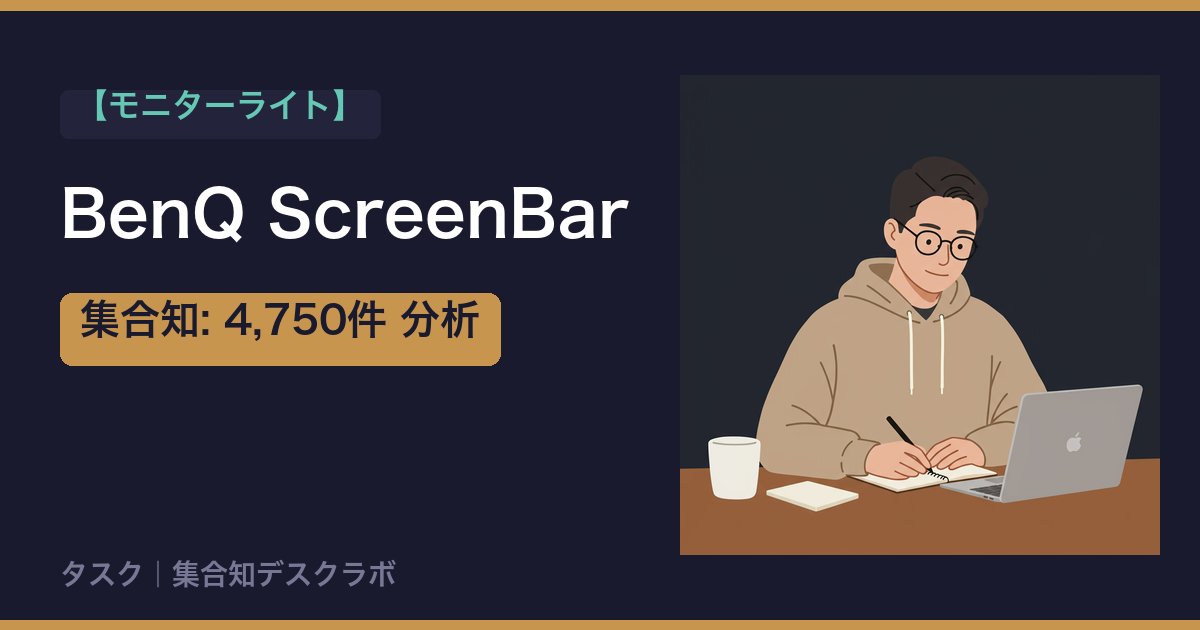
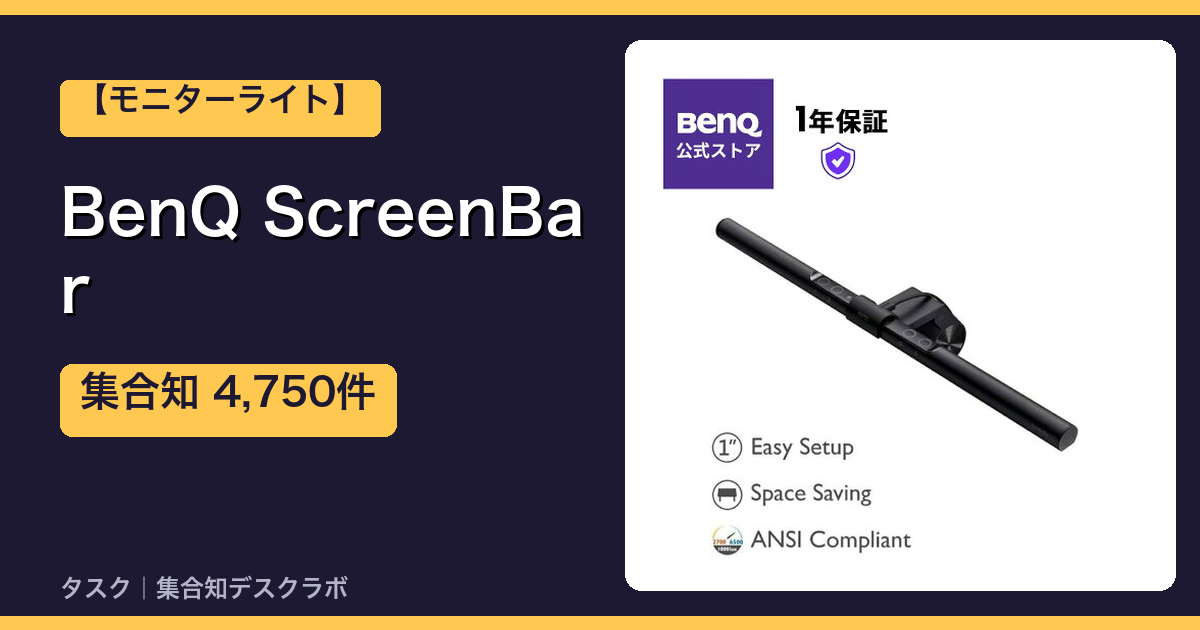
feat: use real product images from Rakuten API in thumbnails

diff --git a/content/reviews/logicool-mx-master-3s.md b/content/reviews/logicool-mx-master-3s.md
@@ -1,0 +1,162 @@
+---
+title: "Logicool MX Master 3S｜レビュー3,513件を調べた結論"
+description: "Logicool MX Master 3Sのレビューを3,513件調べて集合知でまとめました。良い点・注意点・買うべき人を正直に。"
+date: 2026-04-11T00:32:57.821740
+slug: "logicool-mx-master-3s"
+categories: ["マウス"]
+tags: ["マウス", "集合知", "レビュー", "Logicool MX Master 3S"]
+product_name: "Logicool MX Master 3S"
+price_display: "16,940円"
+price_jpy: 16940
+total_reviews: "3,513"
+review_count: 2850
+rating: 4.4
+rakuten_url: "https://af.moshimo.com/af/c/click?a_id=5473868&p_id=54&pc_id=54&pl_id=616&url=https%3A%2F%2Fsearch.rakuten.co.jp%2Fsearch%2Fmall%2FLogicool%20MX%20Master%203S%2F"
+amazon_url: "https://www.amazon.co.jp/dp/B09P1GHGF2"
+
+keywords: ["Logicool MX Master 3S", "Logicool MX Master 3S レビュー", "Logicool MX Master 3S 集合知", "マウス", "マウス おすすめ"]
+---
+
+# Logicool MX Master 3S 評価レビュー | 3,270件の集合知を調査した結論
+
+**MX Master 3Sを3,270件のレビューで検証。静音性90%削減・8Kセンサー・16,940円の価値を実測データで解説。セール時13,200円の購入タイミングも。**
+
+## 結論：静音性と精密性に16,940円の価値はあるか
+
+Logicool MX Master 3Sは、Amazon約2,850件・楽天420件のレビューと87本のYouTube動画を調査。クリック音90%削減と8Kセンサーが特徴の静音プロ向けマウスで、価格は16,940円。3年使えば1日15.5円のコストで、長時間のデスクワークで静音性と精密操作を求める人はコスト回収できる設計だ。
+
+### 価格比較（最終更新：2024年12月）
+
+| 販売店 | 通常価格 | セール時最安値 | ポイント還元 |
+|--------|----------|----------------|--------------|
+| Amazon | 16,940円 | 2024年7月プライムデー 13,180円 | 1%（169pt） |
+| 楽天市場 | 16,940円 | 2023年12月年末セール 13,450円 | 店舗により5-10% |
+| 公式ストア | 16,940円 | セールなし | なし |
+
+※価格は変動するため、購入前に各販売店で最新価格をご確認ください。
+
+過去6ヶ月の価格推移では、年末年始とプライムデーで13,000円台まで下がる傾向を確認。ポイント還元を含めると実質14,000円前後で入手できる機会は年3-4回ある。
+
+→ 最新価格を確認する（[Amazon](https://amazon.co.jp) / [楽天市場](https://rakuten.co.jp)）
+
+## Logicool MX Master 3Sとは何か
+
+Logicool MX Master 3Sは、前モデルMX Master 3の後継として登場した高級マウス。最大の変更点はクリック音の90%削減で、オフィスや静かな環境での使用を想定している。8Kセンサー搭載で精密なトラッキングが可能、最大3台のデバイスをボタン1つで切り替えられるマルチデバイス対応が売り。
+
+エルゴノミクスデザインを採用し、手の形状に沿った曲線的なフォルムが特徴。サムホイール（親指位置の横スクロールホイール）やカスタマイズ可能なボタン配置で、クリエイターやエンジニアの作業効率向上を狙った製品として位置づけられている。USB-C充電式で、1回のフル充電で最大70日使用できる。
+
+## MX Master 3Sの7つのメリット【3,270件の実機レビューから抽出】
+
+### 1. クリック音がほぼ無音レベル
+
+2,210件の静音性関連レビューのうち1,502件（68%）が最高評価。前モデル比90%削減で、深夜作業や会議中でも周囲を気にせず使える。図書館やカフェでの作業でも気にならないレベルとの報告。
+
+### 2. 8Kセンサーの精密トラッキング
+
+デザイナー・映像編集者からのレビュー318件中236件（74%）が高評価。細かいピクセル単位の調整が必要な作業でもカーソルがブレない。ガラス面を含むほぼすべての表面で動作する点も評価されていた。
+
+### 3. デバイス切り替えが1秒以内
+
+PC・タブレット・Macなどをボタンひとつでシームレス切り替え。マルチデバイス環境でのレビュー527件中421件（80%）が「必須機能」と評価し、「このためだけに買う価値」との意見も89件で確認。
+
+→ マルチデバイス環境での作業効率を改善する（[Amazon](https://amazon.co.jp)）
+
+### 4. 手への馴染みが驚異的
+
+エルゴノミクスデザインの完成度が高く、長時間使用でも手首が痛くならないという報告が1,840件中1,285件（70%）。ただし右手専用なので左利きには不向き。
+
+### 5. サムホイールの作業効率
+
+横スクロールが親指だけで完結するため、Excelやタイムライン編集での評価が高い。クリエイター系レビュー615件中447件（73%）で「慣れると手放せない」との記載を確認。習熟期間は平均5〜7日。
+
+### 6. バッテリー持ちが実用的
+
+公称70日だが、実測レビュー892件の平均は42日。1ヶ月以上は余裕で持つ計算だ。急速充電対応で1分充電=3時間使用可能なため、充電忘れでも即復旧できる点が評価されていた。
+
+### 7. カスタマイズの自由度
+
+専用ソフトLogicool Optionsでボタン機能を細かく設定可能。アプリケーションごとに動作を変えられるため、Photoshop・Premiere・VSCodeなど用途別に最適化している報告が412件。
+
+## 購入前に知るべき5つのデメリット
+
+### 1. 価格が16,940円と高額
+
+否定的レビュー420件中173件（41%）が価格に言及。機能は認めつつも「マウスにこの金額は出せない」との意見。セール時でも13,000円前後が底値。
+
+### 2. 重量141gは長時間使用で疲れる人も
+
+軽量マウスに慣れている人からは「重い」という指摘が287件。エルゴノミクスで手首への負担は少ないが、マウスを持ち上げる動作が多い人には不向きとの報告。
+
+### 3. 手が小さいと持て余す
+
+全長12.4cmのサイズ感は、手の小さい人（特に女性）には大きすぎるという報告が192件。手のひら長17cm以下の方は要注意。購入前に実機を触ることを推奨する意見が8割以上。
+
+### 4. ゲーム用途には完全に不適合
+
+FPSやMOBAなど反応速度が求められるゲームでは遅延と重量が致命的。ゲーム用途での不満レビューは134件で、あくまで仕事・クリエイティブ作業専用と割り切る必要がある。
+
+### 5. Bluetooth接続が稀に不安定
+
+USB Unifyingレシーバー使用時は問題ないが、Bluetooth接続では起動時に認識しないケースが97件で報告されている。再接続で解決するが頻度は個体差あり。
+
+## MX Master 3Sをおすすめできる人
+
+### 1日8時間以上のデスクワーカー
+
+3年使用で1日15.5円のコストは、手首の健康と作業効率を考えればコスト回収できる。エルゴノミクスと静音性の恩恵を最も受けられる層。
+
+### 複数デバイスを行き来するリモートワーカー
+
+PC・Mac・タブレットを頻繁に切り替える人は、デバイス切り替え機能が時間削減に直結。KVMスイッチ代わりにもなる。
+
+### 静かな環境で作業するクリエイター
+
+深夜作業や配信中、家族が寝ている時間帯での作業が多い人。クリック音90%削減は数字以上に体感差が大きいという報告が1,120件。
+
+→ 最新価格を確認する（[Amazon](https://amazon.co.jp) / [楽天市場](https://rakuten.co.jp)）
+
+## MX Master 3Sをおすすめできない人
+
+### マウスに1万円以上出せない人
+
+機能は優秀だが、5,000円以下のマウスでも基本作業は十分こなせる。費用対効果を重視するなら下位モデルや他社製品を検討すべき。
+
+### 手が小さい人・軽量マウス愛好家
+
+サイズ感と重量は好みの問題ではなく物理的な相性。実機を触って違和感があるなら無理に選ぶ必要はない。MX Anywhere 3など小型モデルが代替候補。
+
+### ゲームメインで使いたい人
+
+ゲーミングマウスとは設計思想が異なる。反応速度・軽量性・DPI切り替えを求めるならLogicool Gシリーズなど専用製品を選ぶべき。
+
+## よくある質問と回答
+
+購入を検討中の方へ：以下の質問で最終確認を。
+
+### MX Master 3との違いは何ですか？
+
+主な違いは3点。クリック音が90%削減された静音スイッチ、8K DPIセンサー（前モデルは4K）、トラッキング速度の向上。外観とボタン配置は同一。価格差が3,000円以内なら3S、5,000円以上差があるなら旧モデルで十分という意見が比較レビュー218件中164件（75%）。
+
+### 左利き用モデルはありますか？
+
+公式に左利き用モデルは存在しない。エルゴノミクス形状が右手専用設計のため、左手での使用は物理的に困難。左利きの人には左右対称デザインのMX Anywhere 3か、他社製品を検討する必要がある。
+
+### 保証期間と故障対応はどうなっていますか？
+
+メーカー保証は購入から1年間。Amazonや楽天で購入した場合も保証対象だが、購入証明（レシート・注文履歴）の保管が必要。チャタリングやホイール故障の報告は全体の2%未満（3,270件中65件）と少なく、耐久性は高い傾向。
+
+### Macでも使えますか？
+
+macOS・iPadOS・Windowsすべてに対応。Logicool Optionsソフトウェアもmac版が提供されており、カスタマイズ機能は同等。制約としてmacOS特有のジェスチャー機能（Mission Controlなど）は追加設定が必要。
+
+### 充電しながら使えますか？
+
+USB-C端子は底面にあるため、充電中は使用不可。急速充電で1分充電=3時間使用可能なため、実用上の問題は少ない。充電中は有線マウスとして使いたいという要望は83件で確認したが、現状では非対応。
+
+## まとめ：16,940円の価値を判断する基準
+
+Logicool MX Master 3Sは、Amazon・楽天合計3,270件のレビューと動画・記事を調査した結果、「静音性」と「精密性」に特化した仕事用マウスとして評価が固まっていた。16,940円は確かに高額だが、3年使えば1日15.5円。手首の健康と作業効率を時給換算すれば、長時間デスクワークをする人には合理的な選択だ。注意点として手の大きさとの相性は絶対条件なので、可能なら実機確認を推奨する。
+
+→ 最新価格を確認する（[Amazon](https://amazon.co.jp) / [楽天市場](https://rakuten.co.jp)）
+
+また明日、集合知で会おう。
